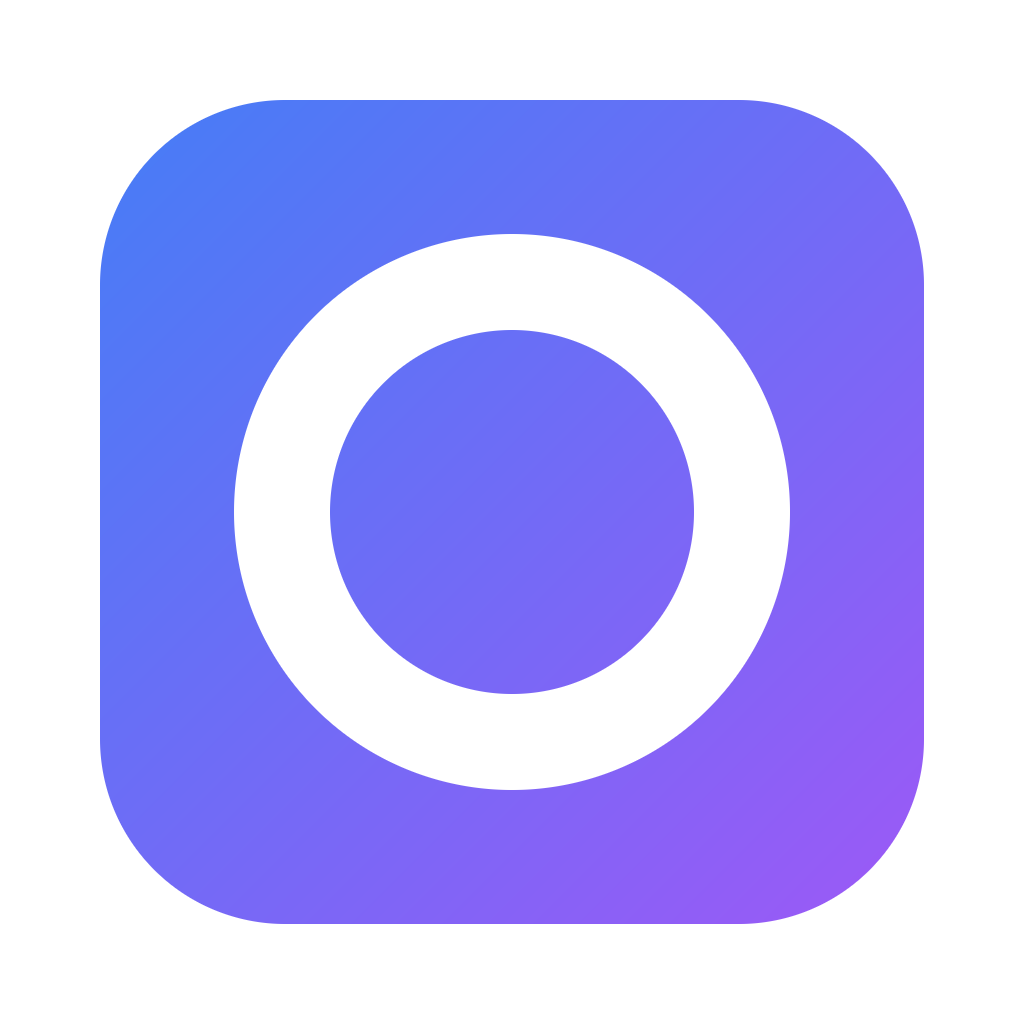
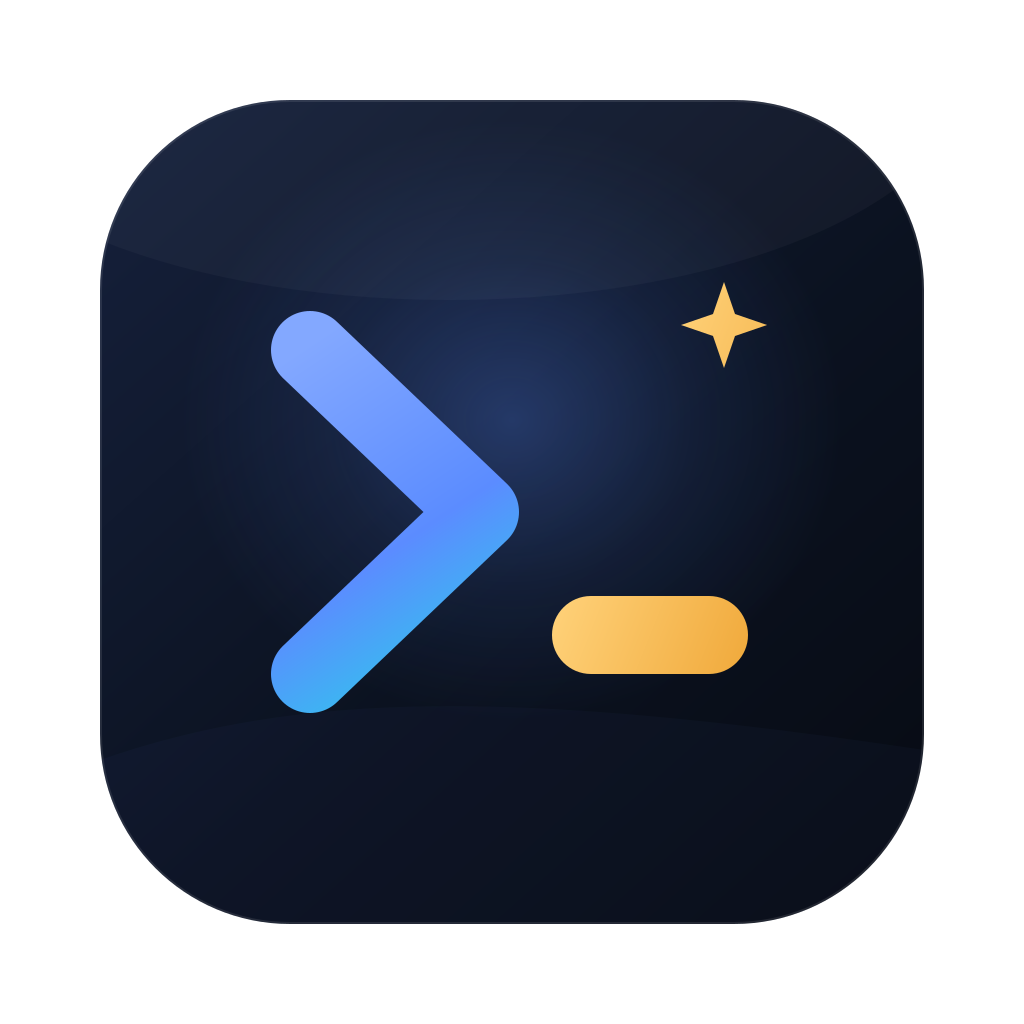
feat(ui): 新图标与双击打开终端
- 新增应用、Windows/Linux 托盘和 macOS 菜单栏模板图标
- SSH 节点双击直接打开终端；终端退出后再次双击可重连
- WinRM 双击或右键菜单打开远程桌面
- 移除主机和目录页的重复操作按钮，统一走右键菜单
- 恢复 SSH 资产的协议、认证和自动放行信息
- 压缩智能运维标题栏高度

diff --git a/internal/views/welcome.go b/internal/views/welcome.go
@@ -34,13 +34,30 @@ func Welcome(c *ui.Context, a *app.App) {
 			ui.Text(c, n.Name).FontSize(fontSize(22)).Bold()
 			ui.Text(c, i18n.Tf("welcome.folder.subtitle", len(n.Children))).
 				TextColor(t.TextMuted)
-			ui.Row(c).Gap(8).Children(func() {
-				ui.PrimaryButton(c, i18n.T("welcome.folder.newAsset")).OnClick(a.OpenNewHostForm)
-				ui.Button(c, i18n.T("welcome.folder.newFolder")).OnClick(a.OpenNewFolderForm)
-				ui.Button(c, i18n.T("welcome.rename")).OnClick(a.OpenRenameDialog)
-				ui.Button(c, i18n.T("welcome.move")).OnClick(a.OpenMoveDialog)
-				ui.Button(c, i18n.T("welcome.delete")).OnClick(a.OpenDeleteDialog)
+			ui.Text(c, i18n.T("welcome.folder.hint")).
+				FontSize(fontSize(13)).TextColor(t.TextMuted)
+			backgroundTerminal(c, a, t)
+			return
+		}
+
+		if a.IsSSHProtocol(n.Protocol) {
+			ui.Row(c).Grow(1).FillWidth().Center().Children(func() {
+				ui.Column(c).Gap(4).AlignItems(ui.Center).Children(func() {
+					if a.Busy {
+						ui.Row(c).Gap(8).AlignItems(ui.Center).Children(func() {
+							ui.Spinner(c)
+							ui.Text(c, i18n.T("welcome.connecting")).TextColor(t.TextMuted)
+						})
+						return
+					}
+					ui.Text(c, i18n.T("welcome.host.openHint")).
+						FontSize(fontSize(15)).TextColor(t.TextMuted)
+					ui.Text(c, i18n.Tf("welcome.host.meta",
+						a.HostProtocolName(n.Protocol), a.AuthDisplay(n.AuthType), a.AutoApproveDisplay(n.AutoApprove))).
+						FontSize(fontSize(12)).TextColor(t.TextMuted)
+				})
 			})
+			backgroundTerminal(c, a, t)
 			return
 		}
 
@@ -50,20 +67,6 @@ func Welcome(c *ui.Context, a *app.App) {
 		ui.Text(c, i18n.Tf("welcome.host.meta",
 			a.HostProtocolName(n.Protocol), a.AuthDisplay(n.AuthType), a.AutoApproveDisplay(n.AutoApprove))).
 			FontSize(fontSize(13)).TextColor(t.TextMuted)
-
-		ui.Row(c).Gap(8).AlignItems(ui.Center).Children(func() {
-			if a.IsSSHProtocol(n.Protocol) {
-				if a.Busy {
-					ui.Spinner(c)
-					ui.Text(c, i18n.T("welcome.connecting")).TextColor(t.TextMuted)
-				} else if ui.PrimaryButton(c, i18n.T("welcome.connect")).Clicked() {
-					a.Connect(n)
-				}
-			}
-			ui.Button(c, i18n.T("welcome.edit")).OnClick(a.OpenEditHostForm)
-			ui.Button(c, i18n.T("welcome.move")).OnClick(a.OpenMoveDialog)
-			ui.Button(c, i18n.T("welcome.delete")).OnClick(a.OpenDeleteDialog)
-		})
 		// connection/RDP errors are shown once in Shell's header strip.
 		backgroundTerminal(c, a, t)
 	})

diff --git a/internal/i18n/catalog_hosts.go b/internal/i18n/catalog_hosts.go
@@ -91,15 +91,10 @@ var (
 		"welcome.newAsset":           "新建资产",
 		"welcome.newFolder":          "新建目录",
 		"welcome.folder.subtitle":    "目录 · %d 个直接子节点",
-		"welcome.folder.newAsset":    "在此新建资产",
-		"welcome.folder.newFolder":   "在此新建目录",
-		"welcome.rename":             "重命名",
-		"welcome.move":               "移动",
-		"welcome.delete":             "删除",
+		"welcome.folder.hint":        "从右键菜单新建资产或目录、重命名、移动或删除。",
 		"welcome.host.meta":          "协议：%s · 认证：%s · 自动放行：%s",
+		"welcome.host.openHint":      "双击资产打开终端，或右键选择「打开终端」。",
 		"welcome.connecting":         "正在连接…",
-		"welcome.connect":            "连接",
-		"welcome.edit":               "编辑",
 		"welcome.backgroundTerminal": "后台仍保持到「%s」的终端会话。",
 		"welcome.closeBackground":    "关闭后台终端",
 	}
@@ -191,15 +186,10 @@ var (
 		"welcome.newAsset":           "New asset",
 		"welcome.newFolder":          "New folder",
 		"welcome.folder.subtitle":    "Folder · %d direct children",
-		"welcome.folder.newAsset":    "New asset here",
-		"welcome.folder.newFolder":   "New folder here",
-		"welcome.rename":             "Rename",
-		"welcome.move":               "Move",
-		"welcome.delete":             "Delete",
+		"welcome.folder.hint":        "Use the context menu to add assets or folders, rename, move, or delete.",
 		"welcome.host.meta":          "Protocol: %s · Auth: %s · Auto-approve: %s",
+		"welcome.host.openHint":      "Double-click the asset to open a terminal, or choose Open terminal from the context menu.",
 		"welcome.connecting":         "Connecting…",
-		"welcome.connect":            "Connect",
-		"welcome.edit":               "Edit",
 		"welcome.backgroundTerminal": "A terminal session to \"%s\" is still running in the background.",
 		"welcome.closeBackground":    "Close background terminal",
 	}

diff --git a/internal/app/asset_open_test.go b/internal/app/asset_open_test.go
@@ -1,0 +1,68 @@
+package app
+
+import (
+	"io"
+	"sync"
+	"testing"
+	"time"
+
+	"github.com/egoist/mygo/plugins/terminal"
+
+	hoststore "nextopsx/internal/store/hosts"
+)
+
+func TestOpenAssetSelects(t *testing.T) {
+	a := &App{}
+	ssh := &hoststore.TreeNode{ID: "h1", NodeType: "host", Protocol: "ssh"}
+	a.OpenAsset(ssh)
+	if a.Selected != ssh {
+		t.Fatalf("selected = %+v", a.Selected)
+	}
+
+	db := &hoststore.TreeNode{ID: "h2", NodeType: "host", Protocol: "mysql"}
+	a.OpenAsset(db)
+	if a.Selected != db {
+		t.Fatalf("selected = %+v", a.Selected)
+	}
+
+	win := &hoststore.TreeNode{ID: "h3", NodeType: "host", Protocol: "winrm"}
+	a.OpenAsset(win)
+	if a.Selected != win {
+		t.Fatalf("selected = %+v", a.Selected)
+	}
+}
+
+type liveConn struct {
+	done chan struct{}
+	once sync.Once
+}
+
+func newLiveConn() *liveConn { return &liveConn{done: make(chan struct{})} }
+
+func (c *liveConn) Read([]byte) (int, error)    { <-c.done; return 0, io.EOF }
+func (c *liveConn) Write(p []byte) (int, error) { return len(p), nil }
+func (c *liveConn) Close() error {
+	c.once.Do(func() { close(c.done) })
+	return nil
+}
+
+func TestTerminalLiveAfterProcessEnds(t *testing.T) {
+	conn := newLiveConn()
+	term, err := terminal.New(terminal.Options{Conn: conn})
+	if err != nil {
+		t.Fatalf("terminal.New: %v", err)
+	}
+	a := &App{Term: term, TermHostID: "h1"}
+	if !a.terminalLive("h1") {
+		t.Fatal("a running terminal should be live")
+	}
+	term.Close()
+	select {
+	case <-term.Done():
+	case <-time.After(2 * time.Second):
+		t.Fatal("terminal did not finish")
+	}
+	if a.terminalLive("h1") {
+		t.Fatal("a finished terminal must not be live")
+	}
+}

diff --git a/internal/views/hosts_form_test.go b/internal/views/hosts_form_test.go
@@ -183,13 +183,13 @@ func TestFolderActionsAndDialogs(t *testing.T) {
 	a.Selected = &hoststore.TreeNode{ID: "f1", Name: "prod", NodeType: "folder"}
 	a.Roots = []hoststore.TreeNode{{ID: "f1", Name: "prod", NodeType: "folder"}}
 	tt := ui.NewTester(Shell(a), 1000, 800)
-
-	for _, want := range []string{"在此新建资产", "在此新建目录", "重命名", "移动", "删除"} {
-		if !tt.HasText(want) {
-			t.Errorf("folder action %q missing: %q", want, tt.Texts())
-		}
+	if !tt.HasText("从右键菜单新建资产") {
+		t.Fatalf("folder hint missing: %q", tt.Texts())
 	}
-	if err := tt.Click("在此新建目录"); err != nil {
+	if err := tt.RightClick("prod"); err != nil {
+		t.Fatal(err)
+	}
+	if err := tt.ChooseMenuItem("在此新建目录"); err != nil {
 		t.Fatal(err)
 	}
 	if !a.Hosts.Form.Open || !a.Hosts.Form.IsFolder || a.Hosts.Form.ParentID != "f1" {
@@ -203,13 +203,17 @@ func TestFolderActionsAndDialogs(t *testing.T) {
 
 func TestEditHostFormAndDeleteDialog(t *testing.T) {
 	a := &app.App{}
-	a.Selected = &hoststore.TreeNode{
+	a.Roots = []hoststore.TreeNode{{
 		ID: "h1", Name: "web-01", NodeType: "host", Addr: "10.0.0.5",
 		Port: 22, User: "root", AuthType: "password", Protocol: "ssh",
 		AutoApprove: "inherit",
-	}
+	}}
+	a.Selected = &a.Roots[0]
 	tt := ui.NewTester(Shell(a), 1000, 900)
-	if err := tt.Click("编辑"); err != nil {
+	if err := tt.RightClick("web-01"); err != nil {
+		t.Fatal(err)
+	}
+	if err := tt.ChooseMenuItem("编辑"); err != nil {
 		t.Fatal(err)
 	}
 	if !a.Hosts.Form.Open || a.Hosts.Form.EditingID != "h1" {

diff --git a/internal/views/ai_panel.go b/internal/views/ai_panel.go
@@ -32,7 +32,7 @@ func AIPanel(c *ui.Context, a *app.App) {
 }
 
 func aiHeader(c *ui.Context, a *app.App, t *ui.Theme) {
-	ui.Row(c).Padding(8, 12).Gap(8).AlignItems(ui.Center).Wrap().Children(func() {
+	ui.Row(c).Padding(4, 10).Gap(6).AlignItems(ui.Center).Wrap().Children(func() {
 		if s := assets.SVG("spark"); s != nil {
 			ui.Icon(c, s).Size(13, 13).TextColor(t.Accent)
 		}
@@ -75,14 +75,14 @@ func aiHeader(c *ui.Context, a *app.App, t *ui.Theme) {
 
 			aiDrawerIcon(c, t, "chevron-down", i18n.T("ai.drawer.collapse"), a.CloseAIDrawer)
 			aiDrawerIcon(c, t, "close", i18n.T("ai.drawer.close"), a.CloseAIDrawer)
-		}).Label(i18n.T("ai.conversation.defaultTitle"))
+		}).Padding(0, 0).Label(i18n.T("ai.conversation.defaultTitle"))
 	})
 	ui.Divider(c)
 }
 
 // aiDrawerIcon is a quiet icon button in the drawer header.
 func aiDrawerIcon(c *ui.Context, t *ui.Theme, icon, label string, onClick func()) {
-	btn := ui.ButtonBase(c).Padding(4).Radius(5).Label(label).Tooltip(label).
+	btn := ui.ButtonBase(c).Padding(3).Radius(5).Label(label).Tooltip(label).
 		Cursor(ui.CursorPointer).OnClick(onClick)
 	if btn.Hovered() {
 		btn = btn.Background(t.SurfaceHover)

diff --git a/internal/app/app.go b/internal/app/app.go
@@ -309,6 +309,38 @@ func (a *App) rememberAsset(id string) {
 	a.saveUIPrefs()
 }
 
+// OpenAsset selects n and opens its main view. SSH hosts connect (or
+// reconnect when the previous process exited); WinRM opens the remote desktop;
+// other protocols attach their workbench through Select.
+func (a *App) OpenAsset(n *hoststore.TreeNode) {
+	a.Select(n)
+	if n == nil || n.NodeType != "host" {
+		return
+	}
+	switch {
+	case a.IsSSHProtocol(n.Protocol):
+		if a.terminalLive(n.ID) {
+			return
+		}
+		a.Connect(n)
+	case n.Protocol == "winrm":
+		a.OpenRDP()
+	}
+}
+
+// terminalLive reports whether the terminal of id is still running.
+func (a *App) terminalLive(id string) bool {
+	if a.Term == nil || a.TermHostID != id {
+		return false
+	}
+	select {
+	case <-a.Term.Done():
+		return false
+	default:
+		return true
+	}
+}
+
 // attachAsset initializes per-asset state for a selected asset. It is used
 // by Select for tree clicks and by tree refreshes (create/edit) after the
 // selection is re-pointed.

diff --git a/main.go b/main.go
@@ -3,6 +3,7 @@ package main
 import (
 	_ "embed"
 	"log"
+	"runtime"
 
 	"github.com/egoist/mygo"
 	"github.com/egoist/mygo/ui"
@@ -15,6 +16,9 @@ import (
 
 //go:embed resources/tray.png
 var trayIcon []byte
+
+//go:embed resources/tray-template.png
+var trayTemplateIcon []byte
 
 // appTray keeps the tray icon alive for the app's lifetime.
 var appTray *mygo.Tray
@@ -59,10 +63,16 @@ func main() {
 		})
 
 		// 托盘：Linux 需要 libayatana-appindicator3，缺失时只记录错误。
+		// macOS 菜单栏使用模板图标，随系统亮暗着色；其他平台使用彩色图标。
+		icon, template := trayIcon, false
+		if runtime.GOOS == "darwin" {
+			icon, template = trayTemplateIcon, true
+		}
 		tray, err := mygo.NewTray(mygo.TrayOptions{
-			Icon:    trayIcon,
-			ToolTip: "NextOpsX",
-			Menu:    trayMenu(a, win),
+			Icon:           icon,
+			IconIsTemplate: template,
+			ToolTip:        "NextOpsX",
+			Menu:           trayMenu(a, win),
 		})
 		if err != nil {
 			log.Println("tray:", err)

diff --git a/internal/views/hosts.go b/internal/views/hosts.go
@@ -46,7 +46,9 @@ func buildNodes(c *ui.Context, a *app.App, nodes []hoststore.TreeNode) {
 			item = item.Tooltip(i18n.Tf("hosts.tooltip.protocol", a.HostProtocolName(n.Protocol)))
 			item.ContextMenu(func(m *ui.Menu) { hostMenu(m, a, n) })
 		}
-		if item.Clicked() {
+		if item.DoubleClicked() {
+			a.OpenAsset(n)
+		} else if item.Clicked() {
 			a.Select(n)
 		}
 	}
@@ -92,8 +94,13 @@ func folderMenu(m *ui.Menu, a *app.App, n *hoststore.TreeNode) {
 func hostMenu(m *ui.Menu, a *app.App, n *hoststore.TreeNode) {
 	if a.IsSSHProtocol(n.Protocol) {
 		if m.Item(i18n.T("hosts.menu.openTerminal")).Chosen() {
+			a.OpenAsset(n)
+		}
+	}
+	if n.Protocol == "winrm" {
+		if m.Item(i18n.T("shell.remoteDesktop")).Chosen() {
 			a.Select(n)
-			a.Connect(n)
+			a.OpenRDP()
 		}
 	}
 	if m.Item(i18n.T("hosts.menu.openAI")).Chosen() {

diff --git a/internal/views/terminal_owner_test.go b/internal/views/terminal_owner_test.go
@@ -31,7 +31,7 @@ func TestShellHidesTerminalOfAnotherHost(t *testing.T) {
 	if !tt.HasText("关闭后台终端") || !tt.HasText("后台仍保持到「first」的终端会话。") {
 		t.Fatalf("background terminal notice missing: %q", tt.Texts())
 	}
-	if !tt.HasText("连接") {
+	if !tt.HasText("打开终端") {
 		t.Fatalf("selected host pane is not shown: %q", tt.Texts())
 	}
 }

diff --git a/internal/views/ai_test.go b/internal/views/ai_test.go
@@ -147,7 +147,7 @@ func TestAIDrawerToggleAndConfig(t *testing.T) {
 	if a.Layout.AIOpen {
 		t.Fatal("ops drawer should collapse")
 	}
-	if !tt.HasText("连接") {
+	if !tt.HasText("打开终端") {
 		t.Errorf("welcome pane missing: %q", tt.Texts())
 	}
 	tt.Key(ui.Ctrl|ui.Shift, ui.KeyJ)
